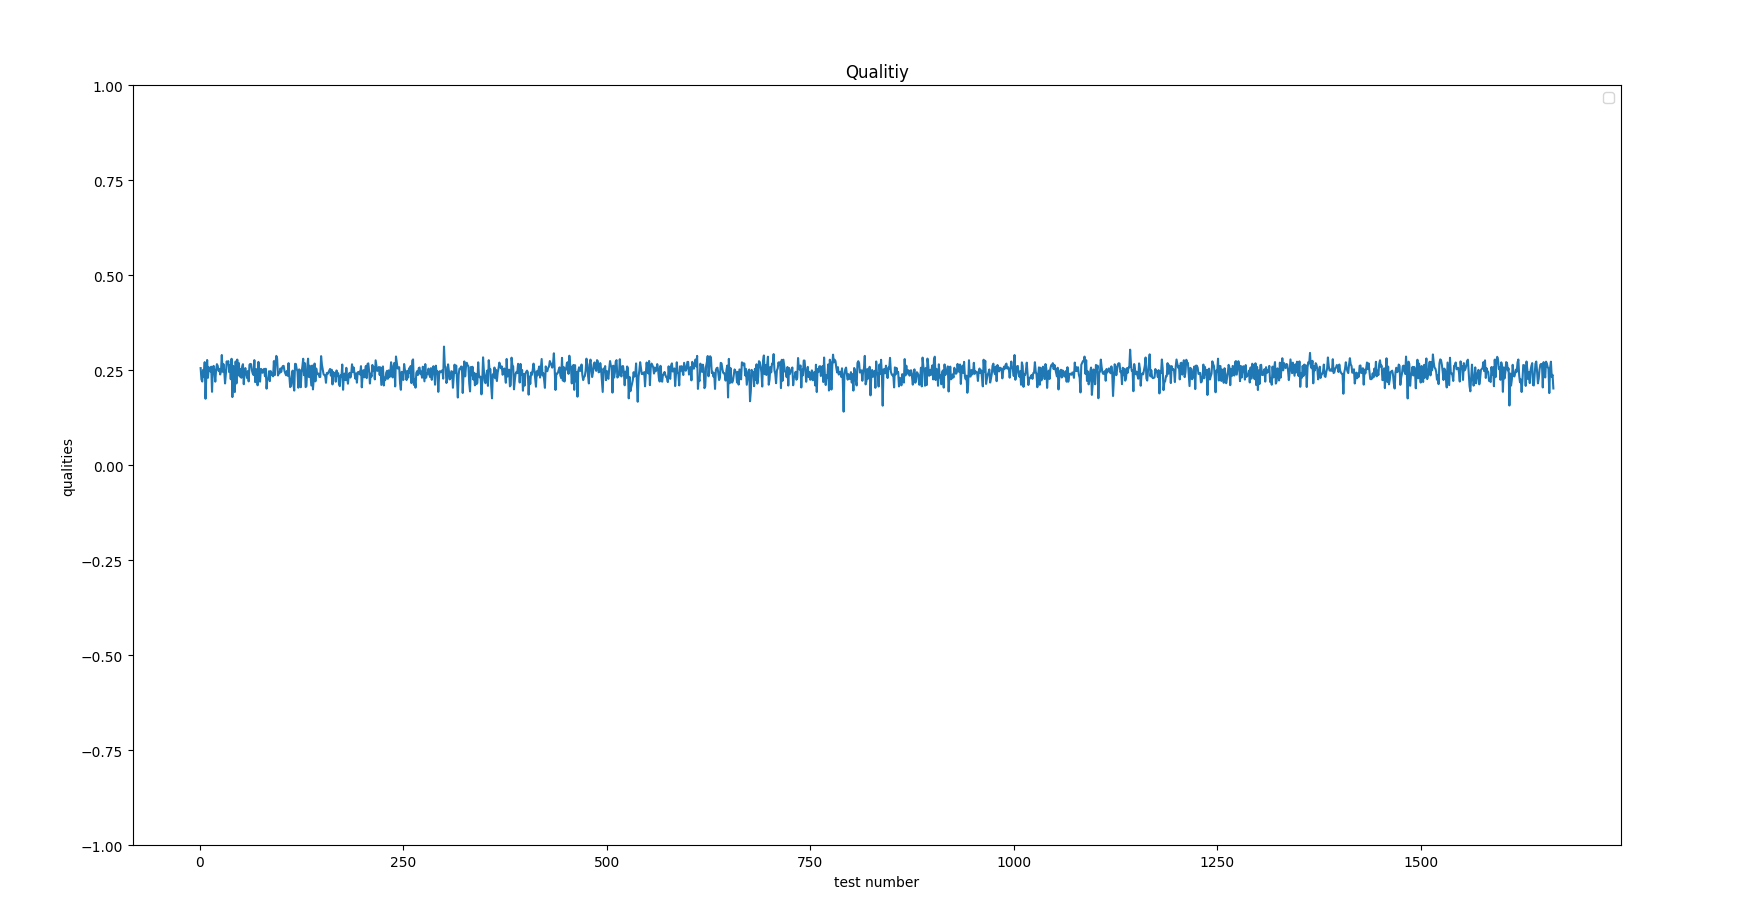
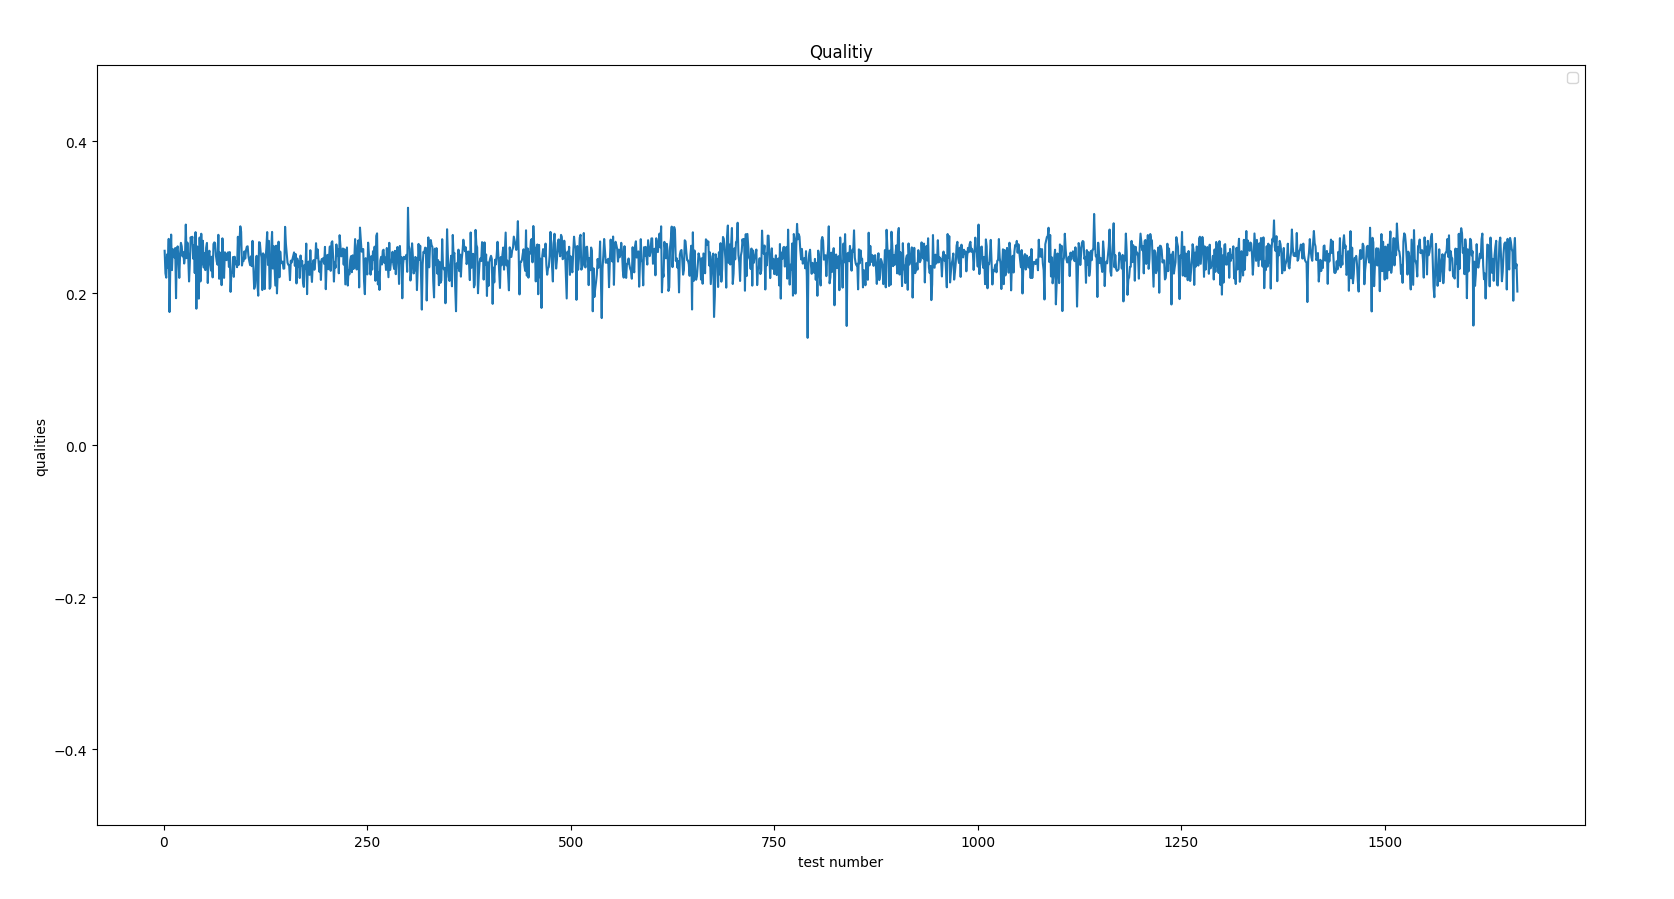
modify graph

diff --git a/ProblemConvexeHull/graphe.py b/ProblemConvexeHull/graphe.py
@@ -1,5 +1,5 @@
 import numpy as np
-import matplotlib.pyplot as plt  
+import matplotlib.pyplot as plt
 
 with open("data") as data:
     flag = 0
@@ -19,7 +19,7 @@ y_str = y_str.split(" ")
 x = [int(x_str[i]) for i in range(len(x_str) - 1)]
 y = [float(y_str[i]) for i in range(len(y_str) - 1)]
 
-plt.ylim((-1, 1))
+plt.ylim((-0.5, 0.5))
 plt.plot(x,y)
 plt.title('Qualitiy')
 plt.xlabel('test number')
